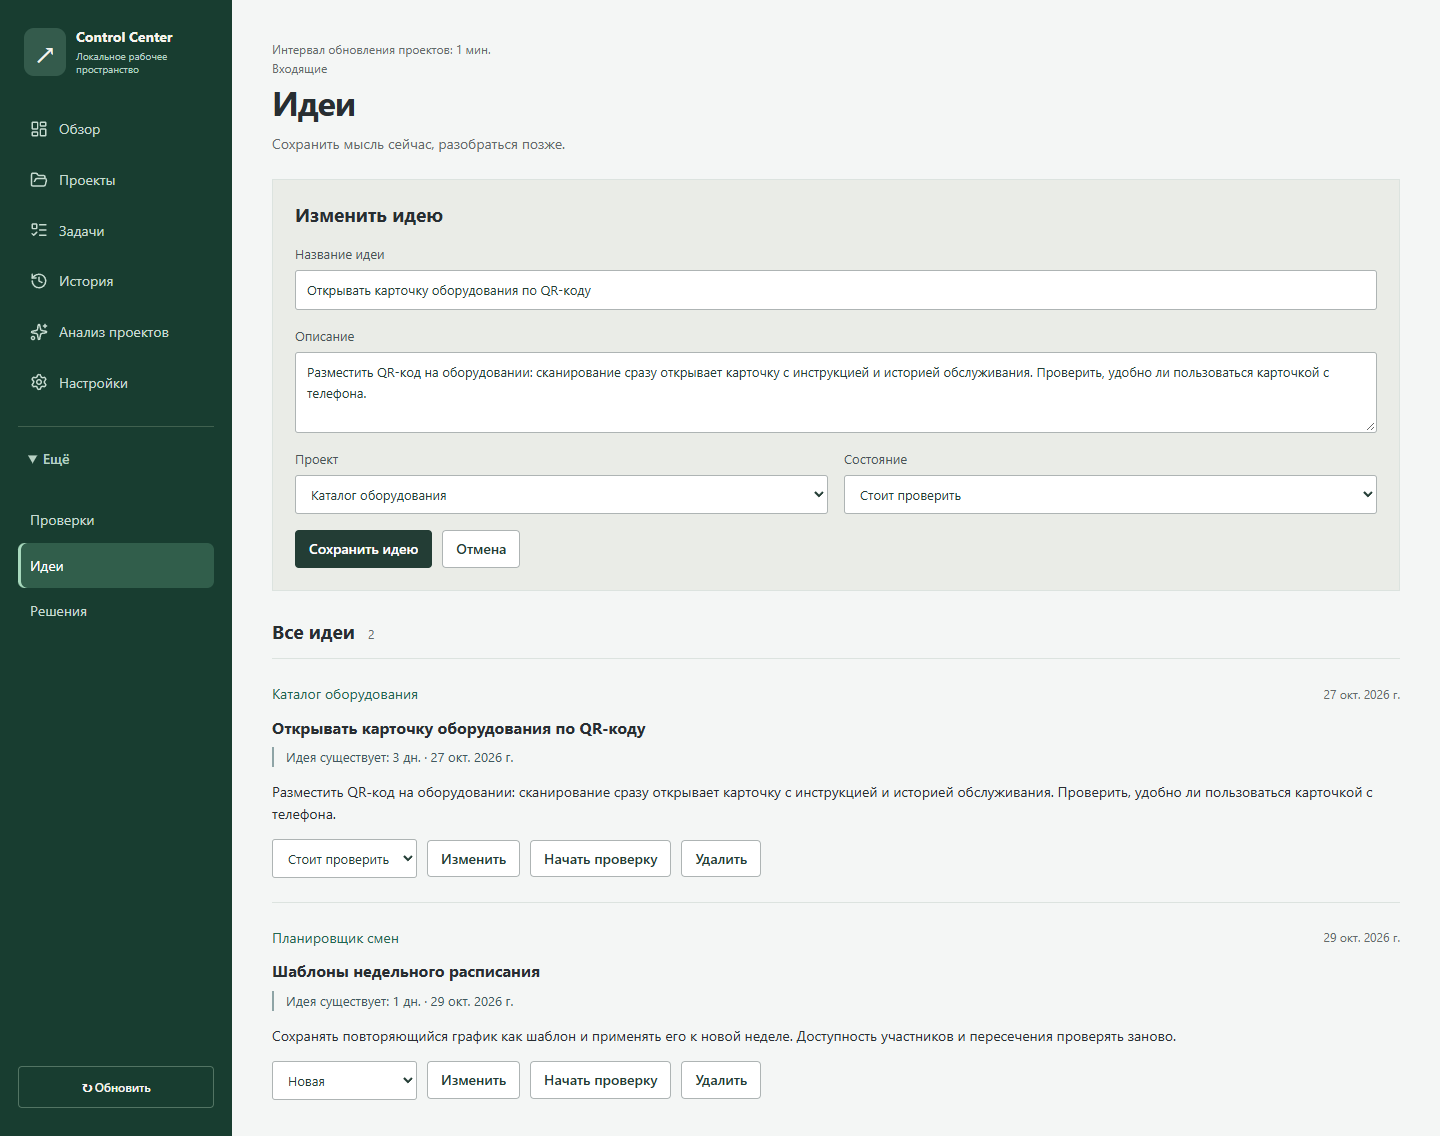
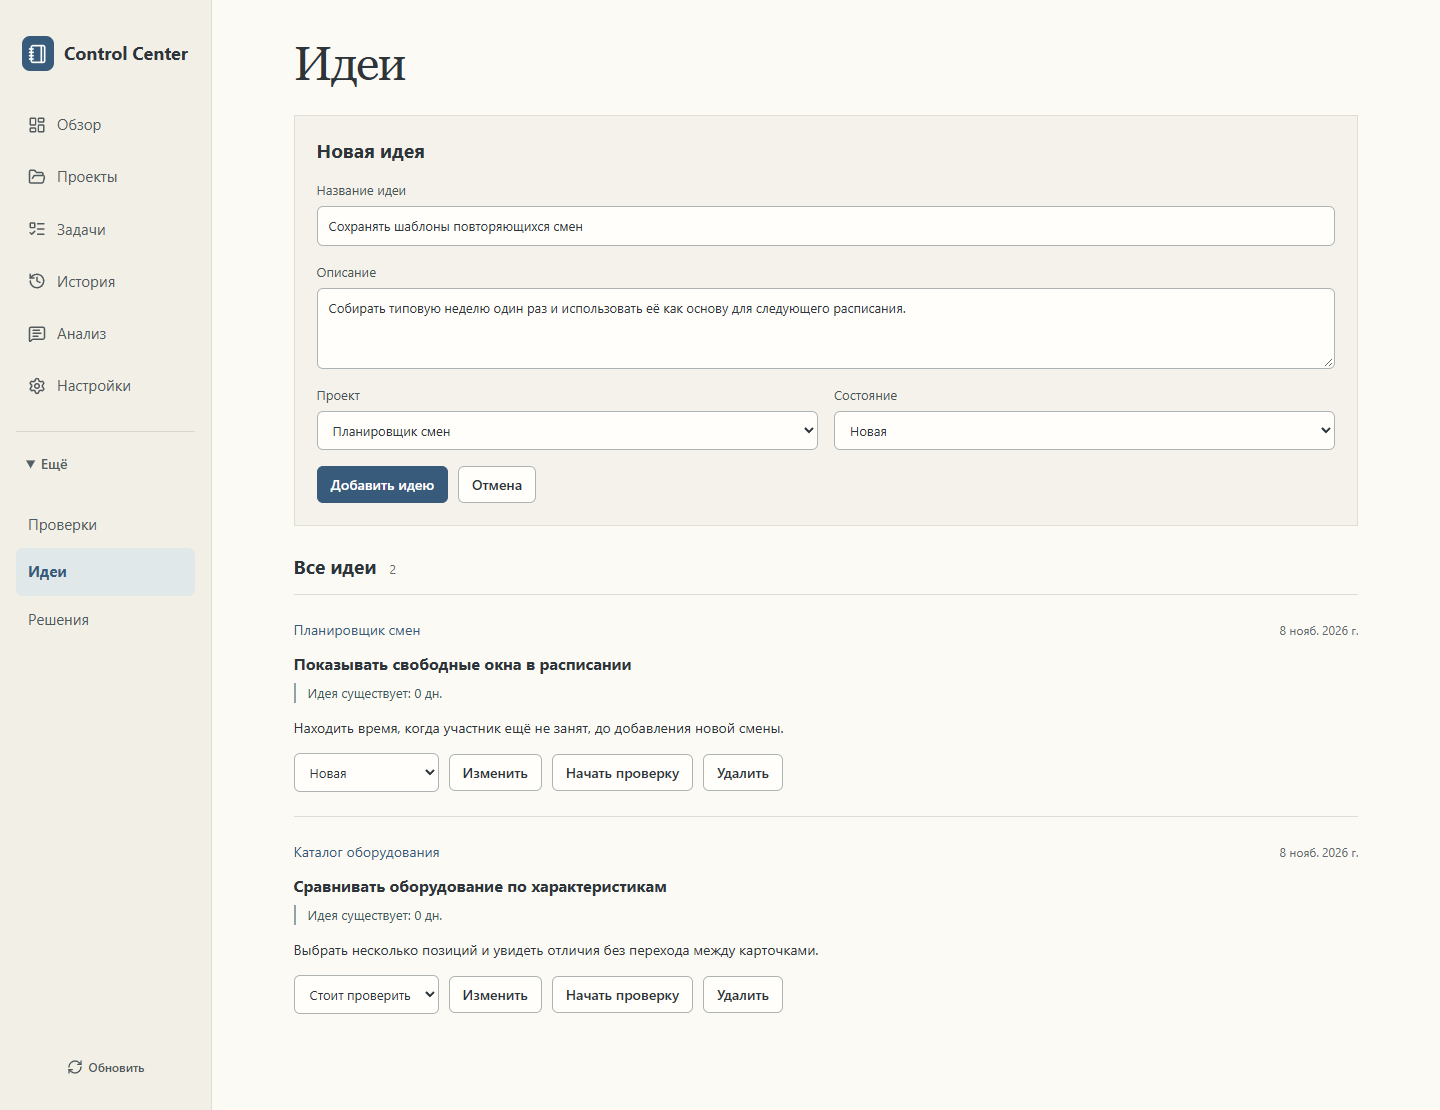
Refresh application screenshots

diff --git a/README.md b/README.md
@@ -19,9 +19,17 @@ Each project page shows its purpose, open tasks, recent work and latest review. 
 
 ![Project overview with current tasks and recent results](assets/screenshots/overview.png)
 
+### Tasks
+
+![Compact task list grouped by project](assets/screenshots/tasks.png)
+
 ### Ideas
 
 ![Idea editor and ideas linked to projects](assets/screenshots/ideas.png)
+
+### Project analysis
+
+![Saved project analysis with per-project conclusions and a follow-up question](assets/screenshots/analysis.png)
 
 ## Get started
 
